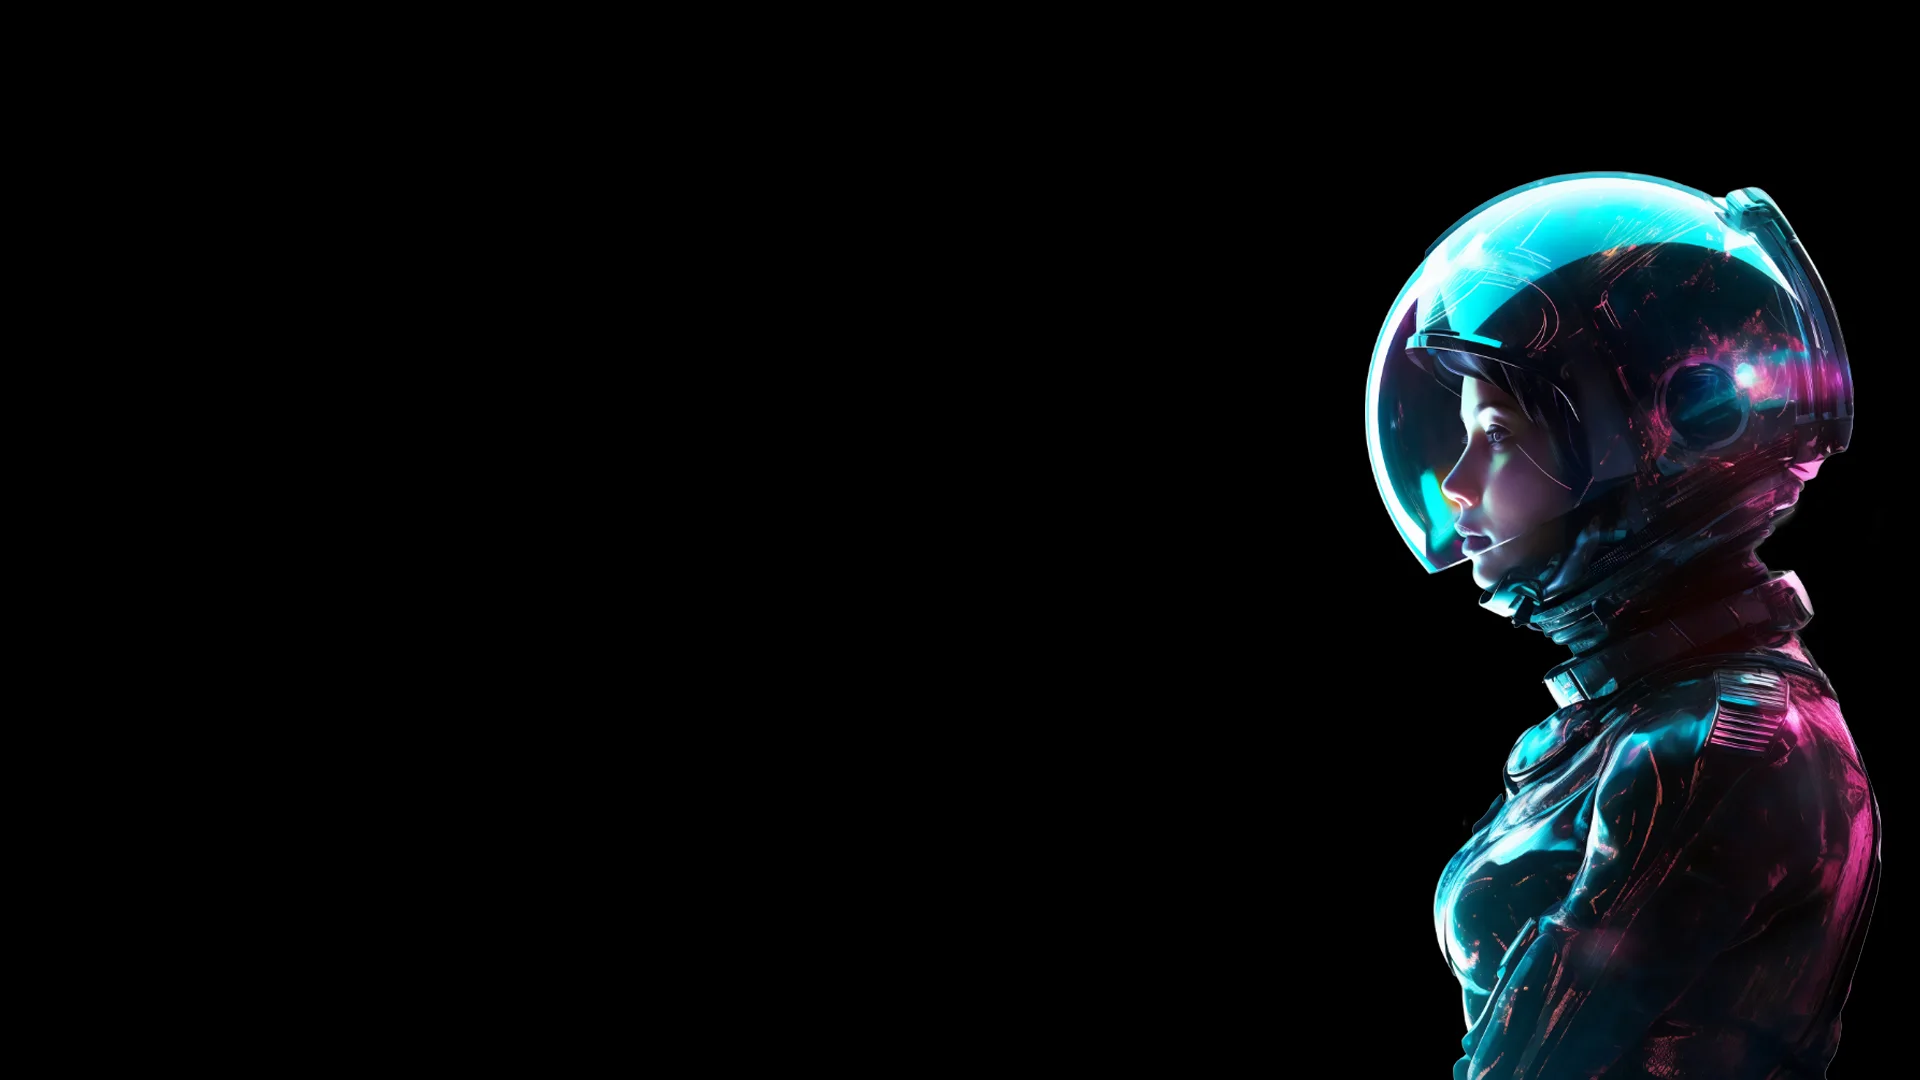
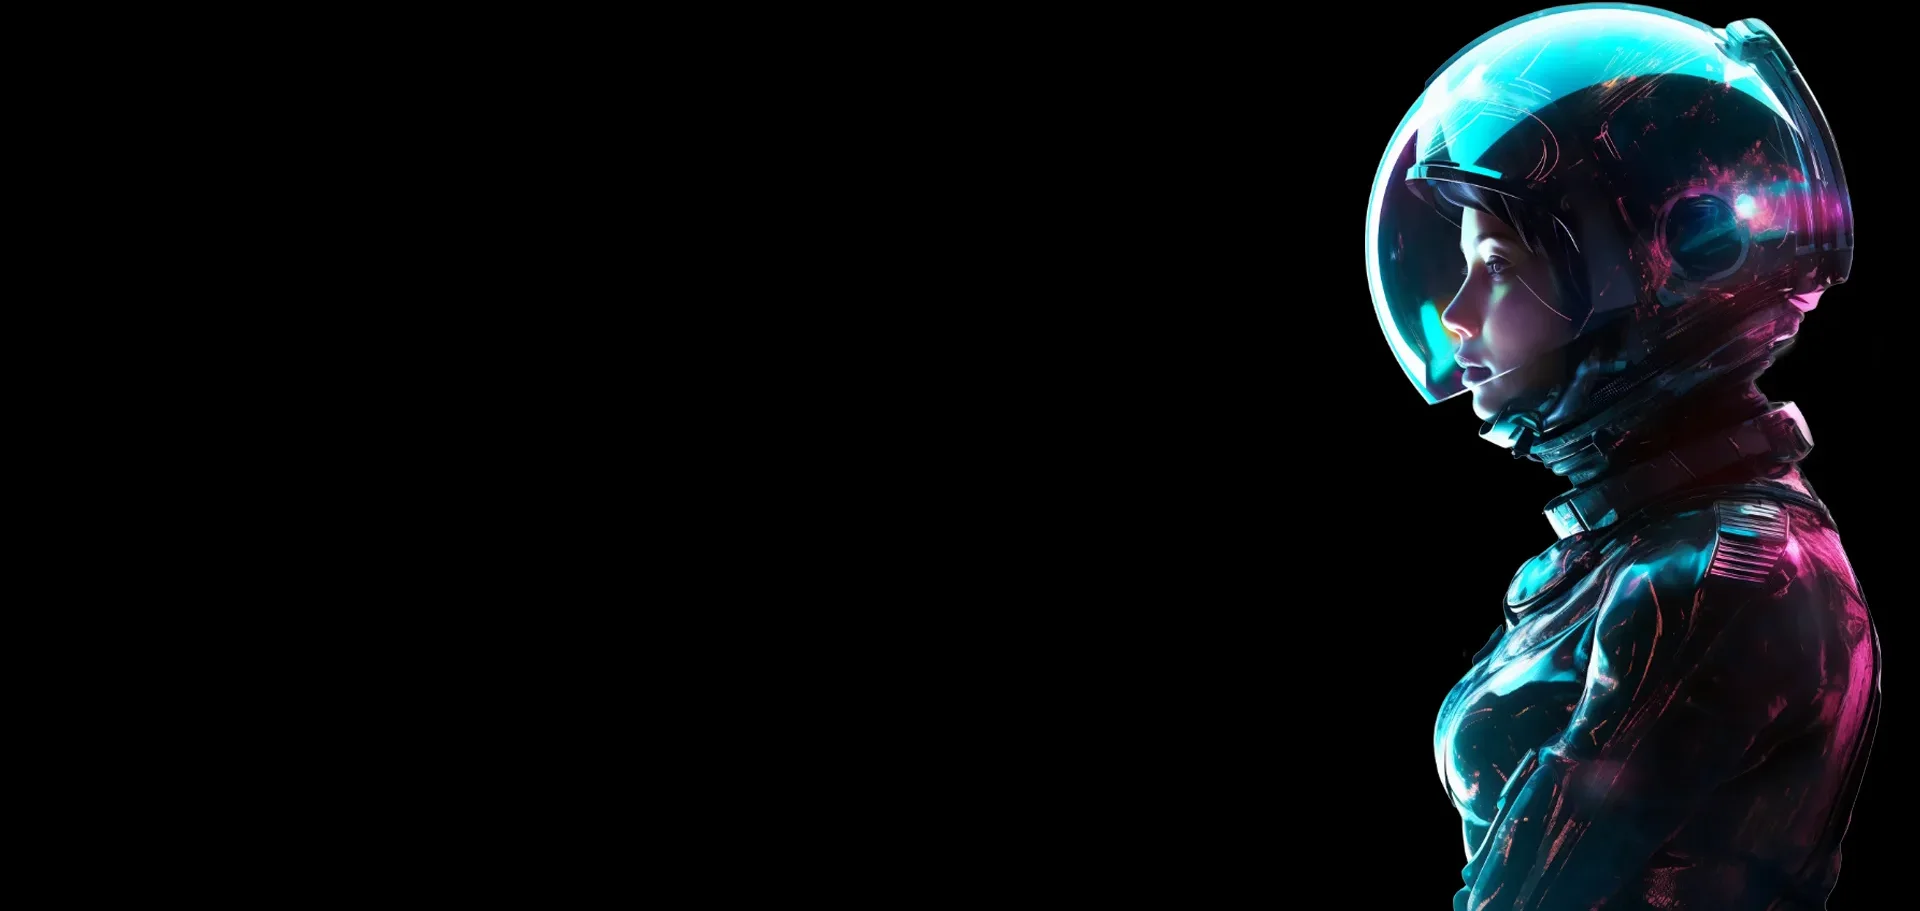
Actualización de imágenes del home y orden de información

Changed region(s): [[0.6875, 0.0, 1.0, 1.0], [0.8438, 0.9528, 0.875, 1.0]]

diff --git a/Css/Style-First.css b/Css/Style-First.css
@@ -69,14 +69,14 @@ html {
 }
 /* [ -- Back del menú -- ] */
 .card-menu {
-  width: 120vh;
+  width: auto;
   height: 30px;
   position: relative;
   margin: 0px 0px;
   padding: 20px 20px;
 }
 .glass-menu {
-  background-color: #23232315;
+  background-color: #ebebeb15;
   backdrop-filter: blur(0.5rem);
   ---webkit-backdrop-filter: blur(0.5rem);
 }
@@ -89,6 +89,7 @@ html {
 
 .wrapper0 {
   margin: 150px auto;
+  padding-left: 50px;
   width: 100%;
 }
 .wrapper1 {
@@ -96,6 +97,19 @@ html {
   width: 100%;
 }
 .imagen1 {
+  max-width: 500px;
+  float: left
+}
+
+.wrapper1A {
+  margin: 150px auto;
+  padding-left: 50px;
+  text-align: left;
+  width: 100%;
+  display: flex;
+  position: relative;
+}
+.imagen1A {
   max-width: 500px;
   float: left
 }
@@ -158,7 +172,7 @@ html {
 
 .cont-home {
   font-family: "Montserrat";
-  font-size: 14px;
+  font-size: 18px;
   line-height: 1.5;
   color: #ffffff;
   padding: 20px 20px 20px 20px ;
@@ -179,19 +193,19 @@ html {
 
 .background-container1 {
   width: 100%;
-  height: 100vh;
+  height: 100%;
   position: relative;
-  background: url(https://devon.mx/dev/Images/Home/back1.webp) no-repeat center;
+  background: url(https://devon.mx/dev/Images/Home/back1.webp)no-repeat center;
   background-size: cover;
   display:flex;
   align-items: center;
 }
 
-.background-astronauta {
+.background-astro {
   width:100%;
-  height: 100vh;
+  height: 80vh;
   position: relative;
-  background: url(https://devon.mx/dev/Images/Home/back2.webp) no-repeat center;
+  background: url(https://devon.mx/dev/Images/Home/astro.webp) no-repeat center;
   background-size: cover;
   display:flex;
   align-items: center;
@@ -226,17 +240,17 @@ html {
 }
 
 .card-container-a {
-    width: 45rem;
+    width: 50rem;
     height: 50dvh auto;
     border: 2px solid #ffffff10;
     border-radius: 25px;
     position: relative;
-    margin: 20px 220px;
+    margin: 20px auto;
     padding: 20px 20px;
 }
 
 .card-container-b {
-  width: 45rem;
+  width: 50rem;
   height: 50dvh auto;
   border: 2px solid #ffffff10;
   border-radius: 25px;
@@ -246,7 +260,7 @@ html {
 }
 
 .card-container-c {
-  width: 45rem;
+  width: 50rem;
   height: 50dvh auto;
   border: 2px solid #ffffff10;
   border-radius: 25px;

diff --git a/index.html b/index.html
@@ -103,7 +103,6 @@
         </div>
     </div>
     
-
     <!-- Contenido del sitio-->
     <div id="SEC_Space" style="width: 100vw; height: 99vh; position: relative;">
             <iframe src="./space.html" frameborder="0" width="100%" height="100%"></iframe>
@@ -125,18 +124,15 @@
                     para dar vida a proyectos innovadores. 
                     Colaboramos proactivamente de dos maneras distintas: como un "Centro Experimental" abierto a la creación de productos y soluciones pioneras, 
                     y como un socio personalizado, desarrollando soluciones adaptadas a tus necesidades específicas.
-                    <br> Nos apasiona ser facilitadores en la creación de proyectos impactantes. Desde la creación de arte digital generativo hasta el diseño y desarrollo inmersivo, 
+                    <br> Nos apasiona ser facilitadores en la creación de proyectos, desde la creación de arte digital generativo hasta el diseño y desarrollo inmersivo, 
                     realidad virtual y aumentada, blockchain, plataformas a medida para la sistematización de procesos, gestión de proyectos y más; 
-                    nuestras herramientas son tu puente hacia la transformación tecnológica.<br> Queremos ser parte de tu viaje tecnológico, aportando no solo nuestra experiencia, 
-                    sino también una perspectiva colaborativa que enriquece cada paso del proceso. 
-                    Juntos, creamos no solo soluciones, sino un futuro donde la tecnología se convierte en un facilitador accesible para todos.</p>
+                    nuestras herramientas son tu puente hacia la transformación tecnológica.
             </div>
         </div>
     </div>
-    <div id="Astronata" class="background-welcome">
-        <div class="wrapper0" class="card-welcome">
-            <span class="title-home">Somos</span><span class="title-number1">Devon.</span>
-            <p class="subtitle-main"> _Creando el futuro juntos</p>
+    <div id="Astronauta" class="background-astro">
+        <div class="wrapper1A">
+            <span class="subtitle-main">Queremos ser parte de tu viaje tecnológico</span>
         </div>
     </div>
 

diff --git a/test-sript.html b/test-sript.html
@@ -6,14 +6,12 @@
     <title>Prueba</title>
 </head>
 <body>
-    <script>
-        let anim = () => document.querySelectorAll(".glass-effect").forEach( (element, elementIndex) => {
-                let t = elementIndex + Date.now() / 10
-                let transform =  rotate3d(${Math.sin(t/1000)}, ${Math.cos(3*t/1000)}, ${Math.cos(2*t/1000)}, 10deg) 
-                element.style.transform = transform
-                requestAnimationFrame( anim )
-            })
-        anim()
-        </script>
+    let anim = () => document.querySelectorAll(".glass-effect").forEach( (element, elementIndex) => {
+        let t = elementIndex + Date.now() / 10
+        let transform = "rotate3d(" + Math.sin(t/1000) + "," + Math.cos(3*t/1000) + "," + Math.cos(2*t/1000) + ", 10deg)"
+        element.style.transform = transform
+        requestAnimationFrame( anim )
+    })
+anim()
 </body>
 </html>
